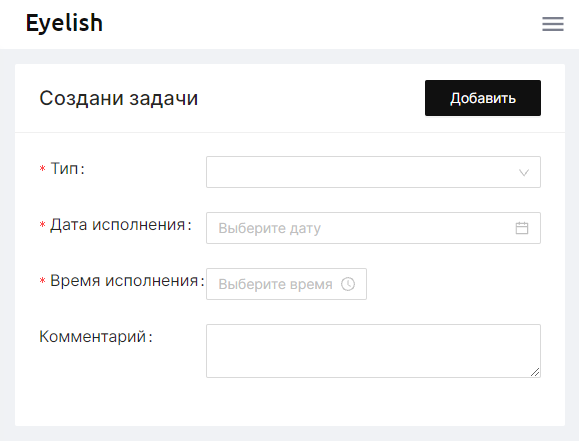
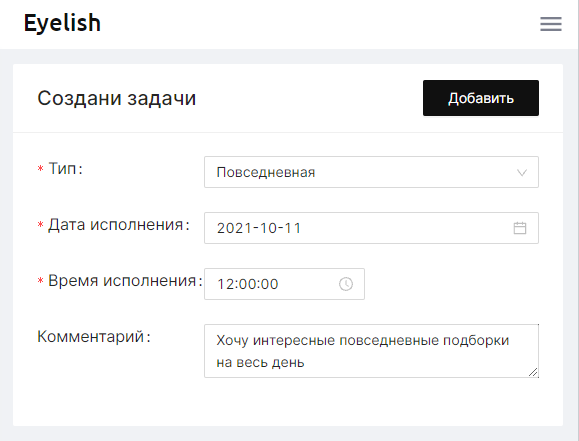
added time execution field

diff --git a/src/components/pages/StylistPage/TaskDetail/consts.ts b/src/components/pages/StylistPage/TaskDetail/consts.ts
@@ -3,6 +3,7 @@ export const STATUS = "STATUS";
 export const CREATED_AT = "CREATED_AT";
 export const UPDATED_AT = "UPDATED_AT";
 export const DATE = "DATE";
+export const TIME = "TIME";
 export const COMMENT = "COMMENT";
 export const BUTTON = "BUTTON";
 
@@ -38,18 +39,25 @@ export const formFields = [
     id: "5",
     type: DATE,
     name: "date",
-    label: "Исполнить до",
+    label: "Дата исполнения",
     readonly: true,
   },
   {
     id: "6",
+    type: DATE,
+    name: "time",
+    label: "Время исполненения",
+    readonly: true,
+  },
+  {
+    id: "7",
     type: COMMENT,
     name: "comment",
     label: "Комментарий",
     readonly: true,
   },
   {
-    id: "7",
+    id: "8",
     type: BUTTON,
     name: "button",
     label: "Сохранить",

diff --git a/src/components/pages/AdminPage/TaskDetail/TaskDetail.tsx b/src/components/pages/AdminPage/TaskDetail/TaskDetail.tsx
@@ -47,7 +47,8 @@ const TaskDetail: FC = () => {
           <Descriptions.Item label="Статус">{task.status.title}</Descriptions.Item>
           <Descriptions.Item label="Тип">{task.type.title}</Descriptions.Item>
           <Descriptions.Item label="Создана">{moment(task.createdAt).format("DD.MM.yyyy hh:mm:ss")}</Descriptions.Item>
-          <Descriptions.Item label="Исполнить до">{task.date}</Descriptions.Item>
+          <Descriptions.Item label="Дата исполнения">{task.date}</Descriptions.Item>
+          <Descriptions.Item label="Время исполнения">{task.time}</Descriptions.Item>
           <Descriptions.Item label="Комментарий">{task.comment}</Descriptions.Item>
         </Descriptions>
       )}

diff --git a/src/components/pages/StylistPage/TaskDetail/TaskDetail.tsx b/src/components/pages/StylistPage/TaskDetail/TaskDetail.tsx
@@ -17,6 +17,7 @@ import {
   DATE,
   formFields,
   STATUS,
+  TIME,
   TYPE,
   UPDATED_AT,
 } from "./consts";
@@ -75,6 +76,16 @@ const TaskDetail: FC = () => {
       case CREATED_AT:
       case UPDATED_AT:
       case DATE:
+        return (
+          <Form.Item
+            name={field.name}
+            label={field.label}
+            rules={[{ required: true, type: "string", max: 99 }]}
+          >
+            <Input readOnly={field.readonly} />
+          </Form.Item>
+        );
+      case TIME:
         return (
           <Form.Item
             name={field.name}

diff --git a/src/components/pages/AdminPage/TaskDetail/consts.ts b/src/components/pages/AdminPage/TaskDetail/consts.ts
@@ -38,18 +38,25 @@ export const formFields = [
     id: "5",
     type: DATE,
     name: "date",
-    label: "Исполнить до",
+    label: "Дата исполнения",
     readonly: true,
   },
   {
     id: "6",
+    type: DATE,
+    name: "time",
+    label: "Время исполненения",
+    readonly: true,
+  },
+  {
+    id: "7",
     type: COMMENT,
     name: "comment",
     label: "Комментарий",
     readonly: true,
   },
   {
-    id: "7",
+    id: "8",
     type: BUTTON,
     name: "button",
     label: "Сохранить",

diff --git a/src/components/pages/UserPage/TasksPage/constants.tsx b/src/components/pages/UserPage/TasksPage/constants.tsx
@@ -40,10 +40,16 @@ export const getColumns = (styles: any, onTaskCancel: (id: number) => void) => {
       ),
     },
     {
-      title: "Исполнить до",
+      title: "Дата исполнения",
       dataIndex: "date",
       key: "date",
       render: (date) => <div>{date}</div>,
+    },
+    {
+      title: "Время исполнения",
+      dataIndex: "time",
+      key: "time",
+      render: (time) => <div>{time}</div>,
     },
     {
       title: "Действие",

diff --git a/src/components/pages/HomePage/HomePage.module.scss b/src/components/pages/HomePage/HomePage.module.scss
@@ -152,7 +152,7 @@
     display: flex;
     &__image {
         min-width: 304px;
-        height: 240px;
+        height: 230px;
         background-color: #ccc;
         background-size: cover;
         background-position: center;
@@ -390,6 +390,11 @@
         }
         &__desc {
             margin-top: 15px;
+        }
+        &__image {
+            width: 340px;
+            margin: auto;
+            height: 260px;
         }
         &--right {
             .work-example__top {

diff --git a/src/components/pages/AdminPage/TasksPage/consts.tsx b/src/components/pages/AdminPage/TasksPage/consts.tsx
@@ -58,10 +58,16 @@ export const getColumns = (styles: any, history: any) => {
       ),
     },
     {
-      title: "Исполнить до",
+      title: "Дата исполнения",
       dataIndex: "date",
       key: "date",
       render: (date) => <div>{date}</div>,
+    },
+    {
+      title: "Время исполнения",
+      dataIndex: "time",
+      key: "time",
+      render: (time) => <div>{time}</div>,
     },
     {
       title: "Действие",

diff --git a/src/components/pages/StylistPage/TasksPage/consts.tsx b/src/components/pages/StylistPage/TasksPage/consts.tsx
@@ -58,10 +58,16 @@ export const getColumns = (styles: any, history: any) => {
       ),
     },
     {
-      title: "Исполнить до",
+      title: "Дата исполнения",
       dataIndex: "date",
       key: "date",
       render: (date) => <div>{date}</div>,
+    },
+    {
+      title: "Время исполнения",
+      dataIndex: "time",
+      key: "time",
+      render: (time) => <div>{time}</div>,
     },
     {
       title: "Действие",

diff --git a/src/components/pages/AdminPage/UserDetail/consts.tsx b/src/components/pages/AdminPage/UserDetail/consts.tsx
@@ -44,10 +44,16 @@ export const getColumns = (styles: any) => {
       ),
     },
     {
-      title: "Исполнить до",
+      title: "Дата исполнения",
       dataIndex: "date",
       key: "date",
       render: (date) => <div>{date}</div>,
+    },
+    {
+      title: "Время исполнения",
+      dataIndex: "time",
+      key: "time",
+      render: (time) => <div>{time}</div>,
     },
     {
       title: "Действие",

diff --git a/src/components/pages/StylistPage/UserDetail/consts.tsx b/src/components/pages/StylistPage/UserDetail/consts.tsx
@@ -45,10 +45,16 @@ export const getColumns = (styles: any) => {
       ),
     },
     {
-      title: "Исполнить до",
+      title: "Дата исполнения",
       dataIndex: "date",
       key: "date",
       render: (date) => <div>{date}</div>,
+    },
+    {
+      title: "Время исполнения",
+      dataIndex: "time",
+      key: "time",
+      render: (time) => <div>{time}</div>,
     },
     {
       title: "Действие",

diff --git a/src/components/pages/UserPage/TaskCreationPage/TaskCreationPage.tsx b/src/components/pages/UserPage/TaskCreationPage/TaskCreationPage.tsx
@@ -24,9 +24,7 @@ const datePicker = {
 };
 
 const timePicker = {
-  showTime: {
-    format: "HH:mm"
-  },
+  format: "HH:mm",
   locale: locale,
 };
 
@@ -97,6 +95,7 @@ export const TaskCreationPage: FC = () => {
       const payload = {
         ...formData,
         date: formData.date.format("DD.MM.YYYY"),
+        time: formData.time.format("hh:mm"),
       };
       await dispatch(tasksThunks.createTask(payload));
       history.push(paths[UsrPage.TASKS]);

diff --git a/src/components/pages/AdminPage/TasksPage/types.ts b/src/components/pages/AdminPage/TasksPage/types.ts
@@ -8,6 +8,7 @@ export enum ESexes {
 export type TypeTask = {
   id: number;
   date: string;
+  time: string;
   type: TaskType;
   status: TaskStatus;
   compilation: TCompilation;
